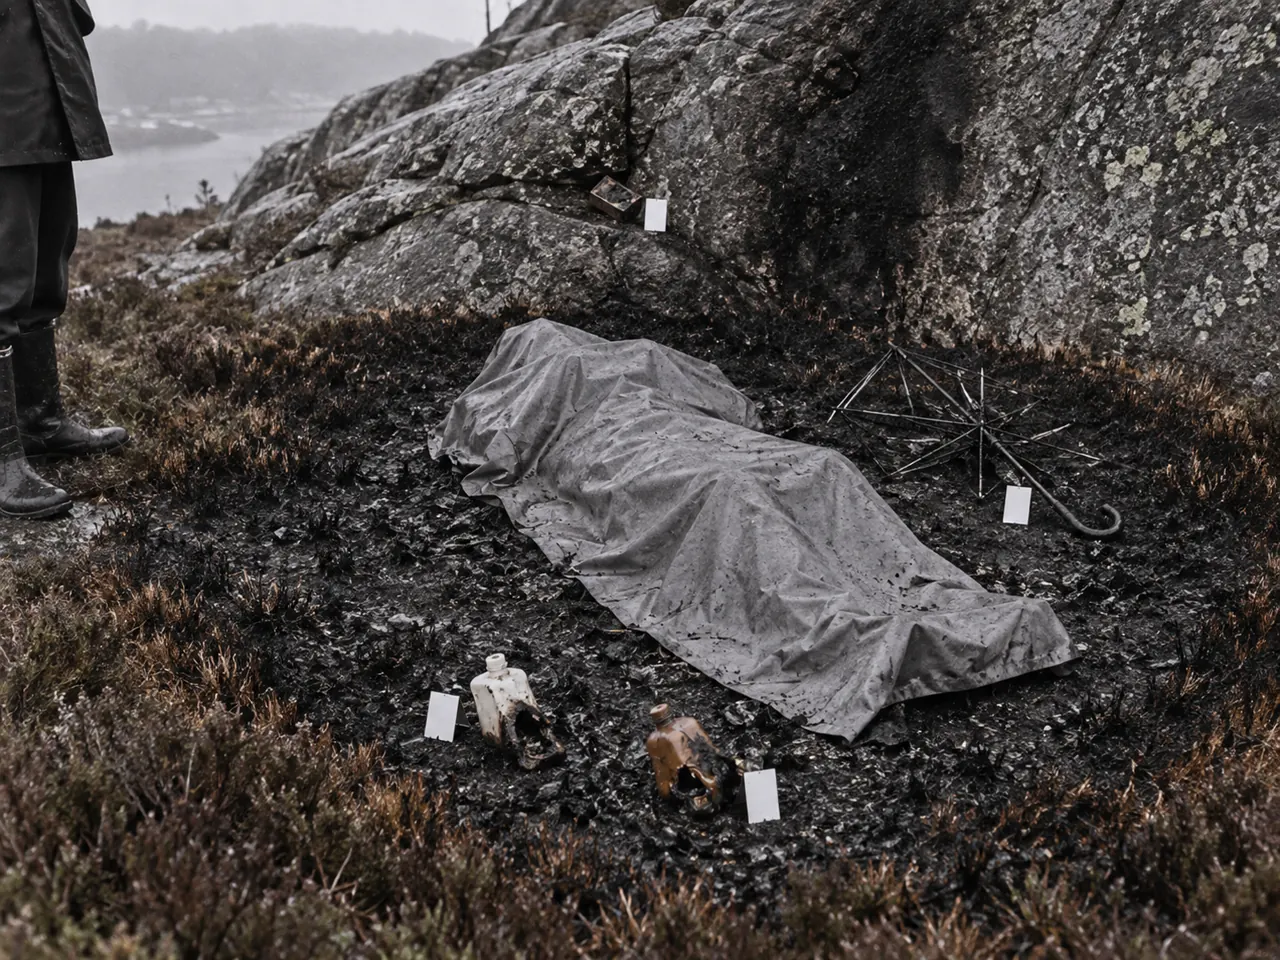
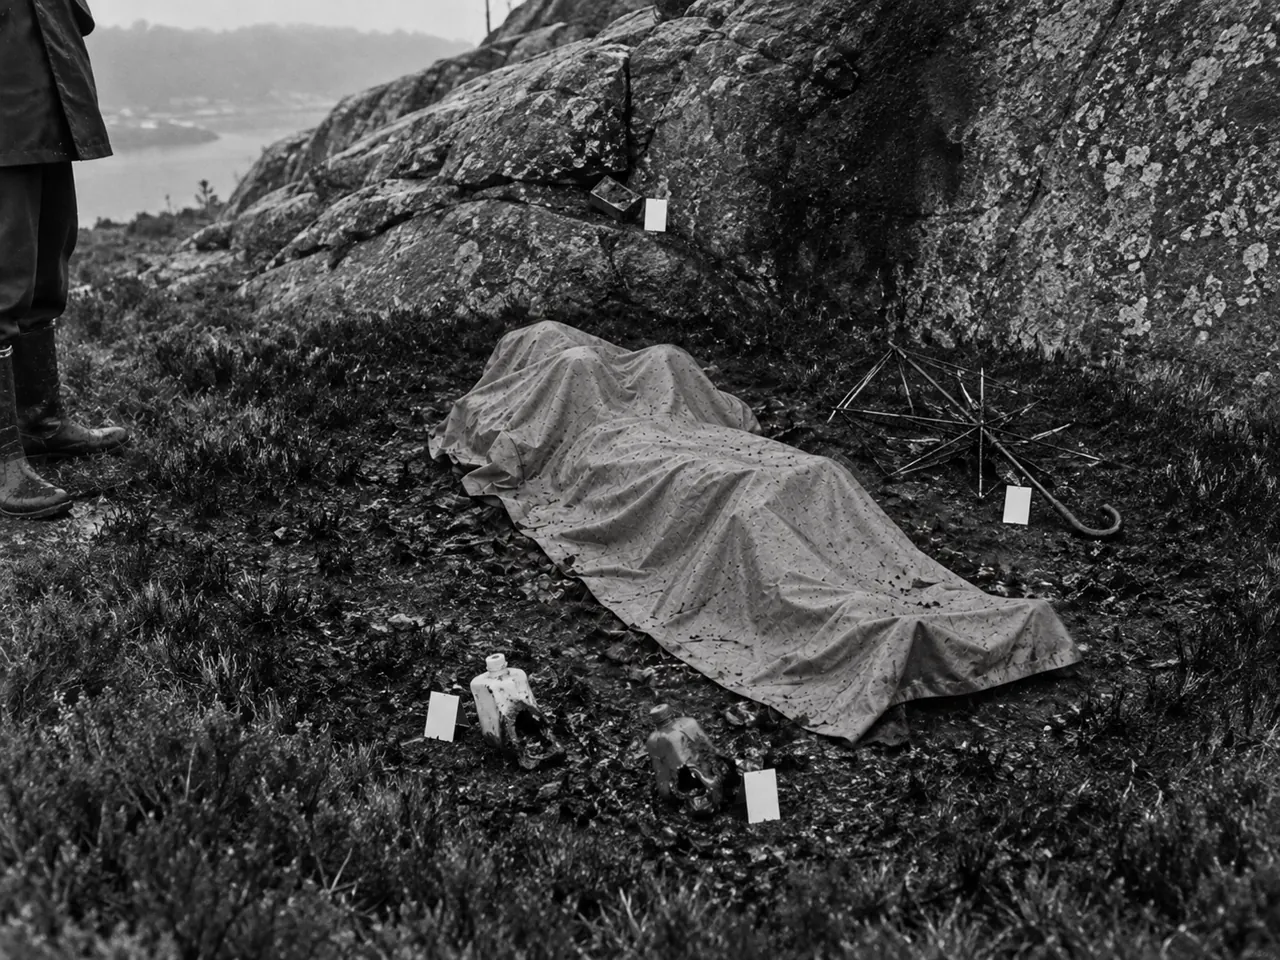
The CASE 11 autopsy room shows one row of separately covered remains along a single table, as the caption lays out the four sacks' contents in order, instead of what read as three bodies side by side; the CASE 06 scene photo shows the tarp raised over the arms held up in front of the chest, as the r

diff --git a/cases/c06-norway-1970.js b/cases/c06-norway-1970.js
@@ -592,7 +592,6 @@
         svg: '<svg viewBox="0 0 200 150"><rect width="200" height="150" fill="#6e5a4e"/><g fill="#8a5f6e"><circle cx="30" cy="40" r="18"/><circle cx="170" cy="30" r="22"/><circle cx="60" cy="130" r="24"/><circle cx="160" cy="125" r="20"/></g><path d="M78 70h44l-6 44H84z" fill="#b8b9b4"/><ellipse cx="100" cy="70" rx="22" ry="6" fill="#d9dad5"/><ellipse cx="100" cy="72" rx="16" ry="3" fill="#4a3526"/></svg>',
         prompt: 'Police close-up photograph of the screw-on cup lid of a 1960s vacuum flask lying in wet purple heather on a rocky Norwegian hillside, a dark coffee stain inside the cup, a blank evidence number card beside it. Overcast light, 35mm black-and-white film.' },
       scene_hollow: { use: '현장 사진 3호 — 바위 비탈 밑 불탄 자리 (방수포로 덮은 시신)', ratio: '4:3', sensitive: true,
-        redo: { level: '선택', why: '두 번째로 뽑은 그림은 병 둘이 제대로 나왔지만, 방수포가 평평해 조서의 「가슴 앞으로 들린 두 팔」 윤곽이 안 보인다.' },
         svg: '<svg viewBox="0 0 200 150"><rect width="200" height="150" fill="#6f716b"/><path d="M0 0h200v70q-40 10-80 4T0 80z" fill="#55575a"/><path d="M92 76q-6-32 6-62q8 22 4 62z" fill="#1f1e1c" opacity=".7"/><ellipse cx="100" cy="106" rx="84" ry="32" fill="none" stroke="#5c4a36" stroke-width="7" opacity=".55"/><ellipse cx="100" cy="106" rx="72" ry="26" fill="#2a2724"/><path d="M58 110q4-18 20-16q6-16 20-12q16-10 30 4q16 4 18 24z" fill="#8c8e88"/><path d="M84 98q6-14 14-6M108 94q8-12 14-2" stroke="#6b6d68" stroke-width="3" fill="none"/><path d="M34 94l14 10M38 106l12-6" stroke="#111" stroke-width="1.5"/><ellipse cx="160" cy="106" rx="6" ry="4" fill="#3a3530"/><ellipse cx="170" cy="110" rx="5" ry="3.5" fill="#3a3530"/><g fill="#efece4"><rect x="40" y="110" width="9" height="6"/><rect x="152" y="116" width="9" height="6"/><rect x="118" y="70" width="9" height="6"/></g></svg>',
         prompt: 'Black-and-white 1969 Norwegian police scene photograph on 35mm Tri-X, overcast afternoon after rain, wet rock: the foot of a steep grey boulder slope where a shallow hollow in the heather has burned. A ring about two metres across of heather burned down to black ash and stubble, singed brown tips beyond it, and on the rock face above a tongue of black soot rising to head height. In the middle of the ring a human form lies on its back under a grey canvas tarp, only its outline showing: the arms bent at the elbows and raised in front of the chest so the tarp tents up over them, the knees slightly bent. Around it, each with a small blank white numbered card: the black wire skeleton of a burnt folding umbrella by the right shoulder, two small opaque 1960s polyethylene bottles (squat, white and brown, like household cleaner flasks, not clear water bottles) melted into shapeless blackened lumps, lying on the ash about half a metre beyond the foot end of the tarp and clearly separate from it, a charred matchbox wedged in a rock crack above the head. The muddy rubber boots of a policeman at the frame edge, raindrops beading on the tarp, heavy grain.',
         must: '지름 2m쯤 까맣게 탄 히스 고리 · 바위 벽을 사람 키만큼 타고 오른 그을음 · 방수포 아래로 가슴 앞에 들린 두 팔의 윤곽 · 번호표가 붙은 우산 뼈대(어깨 곁)·녹은 병 둘(발치)·성냥갑(머리 위 바위틈)',

diff --git a/img/manifest.js b/img/manifest.js
@@ -111,7 +111,7 @@ window.MG.images = {
   "c06/harbor": "img/c06/harbor.webp?v=81ac0ac7",
   "c06/hytte": "img/c06/hytte.webp?v=d40d9a91",
   "c06/regcard": "img/c06/regcard.webp?v=7243ecc5",
-  "c06/scene_hollow": "img/c06/scene_hollow.webp?v=f22ab815",
+  "c06/scene_hollow": "img/c06/scene_hollow.webp?v=6c50b808",
   "c06/ship": "img/c06/ship.webp?v=a000a31a",
   "c06/station": "img/c06/station.webp?v=30135a93",
   "c06/stern": "img/c06/stern.webp?v=bbebb08a",
@@ -189,7 +189,7 @@ window.MG.images = {
   "c10/crates": "img/c10/crates.webp?v=e1fd5fd3",
   "c10/hoesik": "img/c10/hoesik.webp?v=c09e2592",
   "c10/pier_day": "img/c10/pier_day.webp?v=3d8ba1fa",
-  "c11/autopsy_room": "img/c11/autopsy_room.webp?v=39e45273",
+  "c11/autopsy_room": "img/c11/autopsy_room.webp?v=801d9116",
   "c11/bus": "img/c11/bus.webp?v=ed08a987",
   "c11/butcher_floor": "img/c11/butcher_floor.webp?v=df952ff9",
   "c11/butcher_lumi": "img/c11/butcher_lumi.webp?v=b07114bd",

diff --git a/docs/IMAGE_REDO.md b/docs/IMAGE_REDO.md
@@ -2,19 +2,9 @@
 
 > `node tools/prompts.js` 가 자동으로 만든다. 사건 파일 `art` 항목의 `redo` 표시를 모은 것이다.
 
-총 **1장** (필수 0 · 강화 0 · 선택 1). 같은 경로·같은 이름으로 넣으면 게임 그림이 자동으로 바뀐다. 바꾼 뒤에는 그 항목의 `redo` 표시를 지운다.
+총 **0장** (필수 0 · 강화 0 · 선택 0). 같은 경로·같은 이름으로 넣으면 게임 그림이 자동으로 바뀐다. 바꾼 뒤에는 그 항목의 `redo` 표시를 지운다.
 
 - **필수**: 이야기·단서와 어긋나 꼭 다시 뽑아야 한다. **강화**: 빨간 별 사건의 수위를 올린 그림 (기존 교체 + 새 그림). **선택**: 지금도 쓸 만하지만 더 나아질 수 있다.
 
 | 그림 | 급함 | 이유 |
 |---|---|---|
-| `c06/scene_hollow` | 선택 | 두 번째로 뽑은 그림은 병 둘이 제대로 나왔지만, 방수포가 평평해 조서의 「가슴 앞으로 들린 두 팔」 윤곽이 안 보인다. |
-
-## c06/scene_hollow — 현장 사진 3호 — 바위 비탈 밑 불탄 자리 (방수포로 덮은 시신) (선택)
-- 저장 경로: `img/c06/scene_hollow.png` · 비율: 4:3
-- 이유: 두 번째로 뽑은 그림은 병 둘이 제대로 나왔지만, 방수포가 평평해 조서의 「가슴 앞으로 들린 두 팔」 윤곽이 안 보인다.
-- **꼭 보여야 할 것**: 지름 2m쯤 까맣게 탄 히스 고리 · 바위 벽을 사람 키만큼 타고 오른 그을음 · 방수포 아래로 가슴 앞에 들린 두 팔의 윤곽 · 번호표가 붙은 우산 뼈대(어깨 곁)·녹은 병 둘(발치)·성냥갑(머리 위 바위틈)
-- 주의: 방수포는 끝까지 덮인 채로. 탄 피부·살·상처·얼굴은 보이지 않게.
-```
-Black-and-white 1969 Norwegian police scene photograph on 35mm Tri-X, overcast afternoon after rain, wet rock: the foot of a steep grey boulder slope where a shallow hollow in the heather has burned. A ring about two metres across of heather burned down to black ash and stubble, singed brown tips beyond it, and on the rock face above a tongue of black soot rising to head height. In the middle of the ring a human form lies on its back under a grey canvas tarp, only its outline showing: the arms bent at the elbows and raised in front of the chest so the tarp tents up over them, the knees slightly bent. Around it, each with a small blank white numbered card: the black wire skeleton of a burnt folding umbrella by the right shoulder, two small opaque 1960s polyethylene bottles (squat, white and brown, like household cleaner flasks, not clear water bottles) melted into shapeless blackened lumps, lying on the ash about half a metre beyond the foot end of the tarp and clearly separate from it, a charred matchbox wedged in a rock crack above the head. The muddy rubber boots of a policeman at the frame edge, raindrops beading on the tarp, heavy grain. 1969 Norwegian police and press photography on 35mm film: Tri-X style black-and-white grain for police documentation, faded early colour film with a cool blue-green cast for everything else; overcast west-coast light, wet rock, heather and harbour mist. Documentary and quiet. No readable text, no faces. Graphic content is limited to fire traces and covered remains: heather burned down to black ash, soot-streaked rock, charred and melted personal belongings, and a body kept fully covered under a grey tarp or white sheet with only its outline and soot seeping through the cloth: no burned skin or flesh, no wounds, no faces. Show exactly what the prompt names: counts, colours and positions. If the style is black-and-white but an object has a named colour, keep that colour on that object only, as if hand-tinted. For still-life and evidence shots use a simple background: no window view, no street scene, no passers-by, no city skyline. Show no numerals or dates except those the prompt gives. Wherever text would appear (headlines, flyers, notes, signs), render it only as smeared grey bands or soft blurred strokes, never as crisp pseudo-Hangul, pseudo-kanji or pseudo-kana. One single image, no inset panels, no collage, no second version of the scene. No recognizable real landmarks unless the prompt names them.
-```

diff --git a/docs/IMAGE_PROMPTS.md b/docs/IMAGE_PROMPTS.md
@@ -723,7 +723,7 @@ Newspaper photograph of a remote rocky valley above a small Norwegian west-coast
 Police close-up photograph of the screw-on cup lid of a 1960s vacuum flask lying in wet purple heather on a rocky Norwegian hillside, a dark coffee stain inside the cup, a blank evidence number card beside it. Overcast light, 35mm black-and-white film.
 ```
 
-### c06/scene_hollow — 현장 사진 3호 — 바위 비탈 밑 불탄 자리 (방수포로 덮은 시신) 🔞 열람 주의 🔁 다시 뽑기
+### c06/scene_hollow — 현장 사진 3호 — 바위 비탈 밑 불탄 자리 (방수포로 덮은 시신) 🔞 열람 주의
 - 저장 경로: `img/c06/scene_hollow.webp` · 비율: 4:3
 ```
 Black-and-white 1969 Norwegian police scene photograph on 35mm Tri-X, overcast afternoon after rain, wet rock: the foot of a steep grey boulder slope where a shallow hollow in the heather has burned. A ring about two metres across of heather burned down to black ash and stubble, singed brown tips beyond it, and on the rock face above a tongue of black soot rising to head height. In the middle of the ring a human form lies on its back under a grey canvas tarp, only its outline showing: the arms bent at the elbows and raised in front of the chest so the tarp tents up over them, the knees slightly bent. Around it, each with a small blank white numbered card: the black wire skeleton of a burnt folding umbrella by the right shoulder, two small opaque 1960s polyethylene bottles (squat, white and brown, like household cleaner flasks, not clear water bottles) melted into shapeless blackened lumps, lying on the ash about half a metre beyond the foot end of the tarp and clearly separate from it, a charred matchbox wedged in a rock crack above the head. The muddy rubber boots of a policeman at the frame edge, raindrops beading on the tarp, heavy grain.
